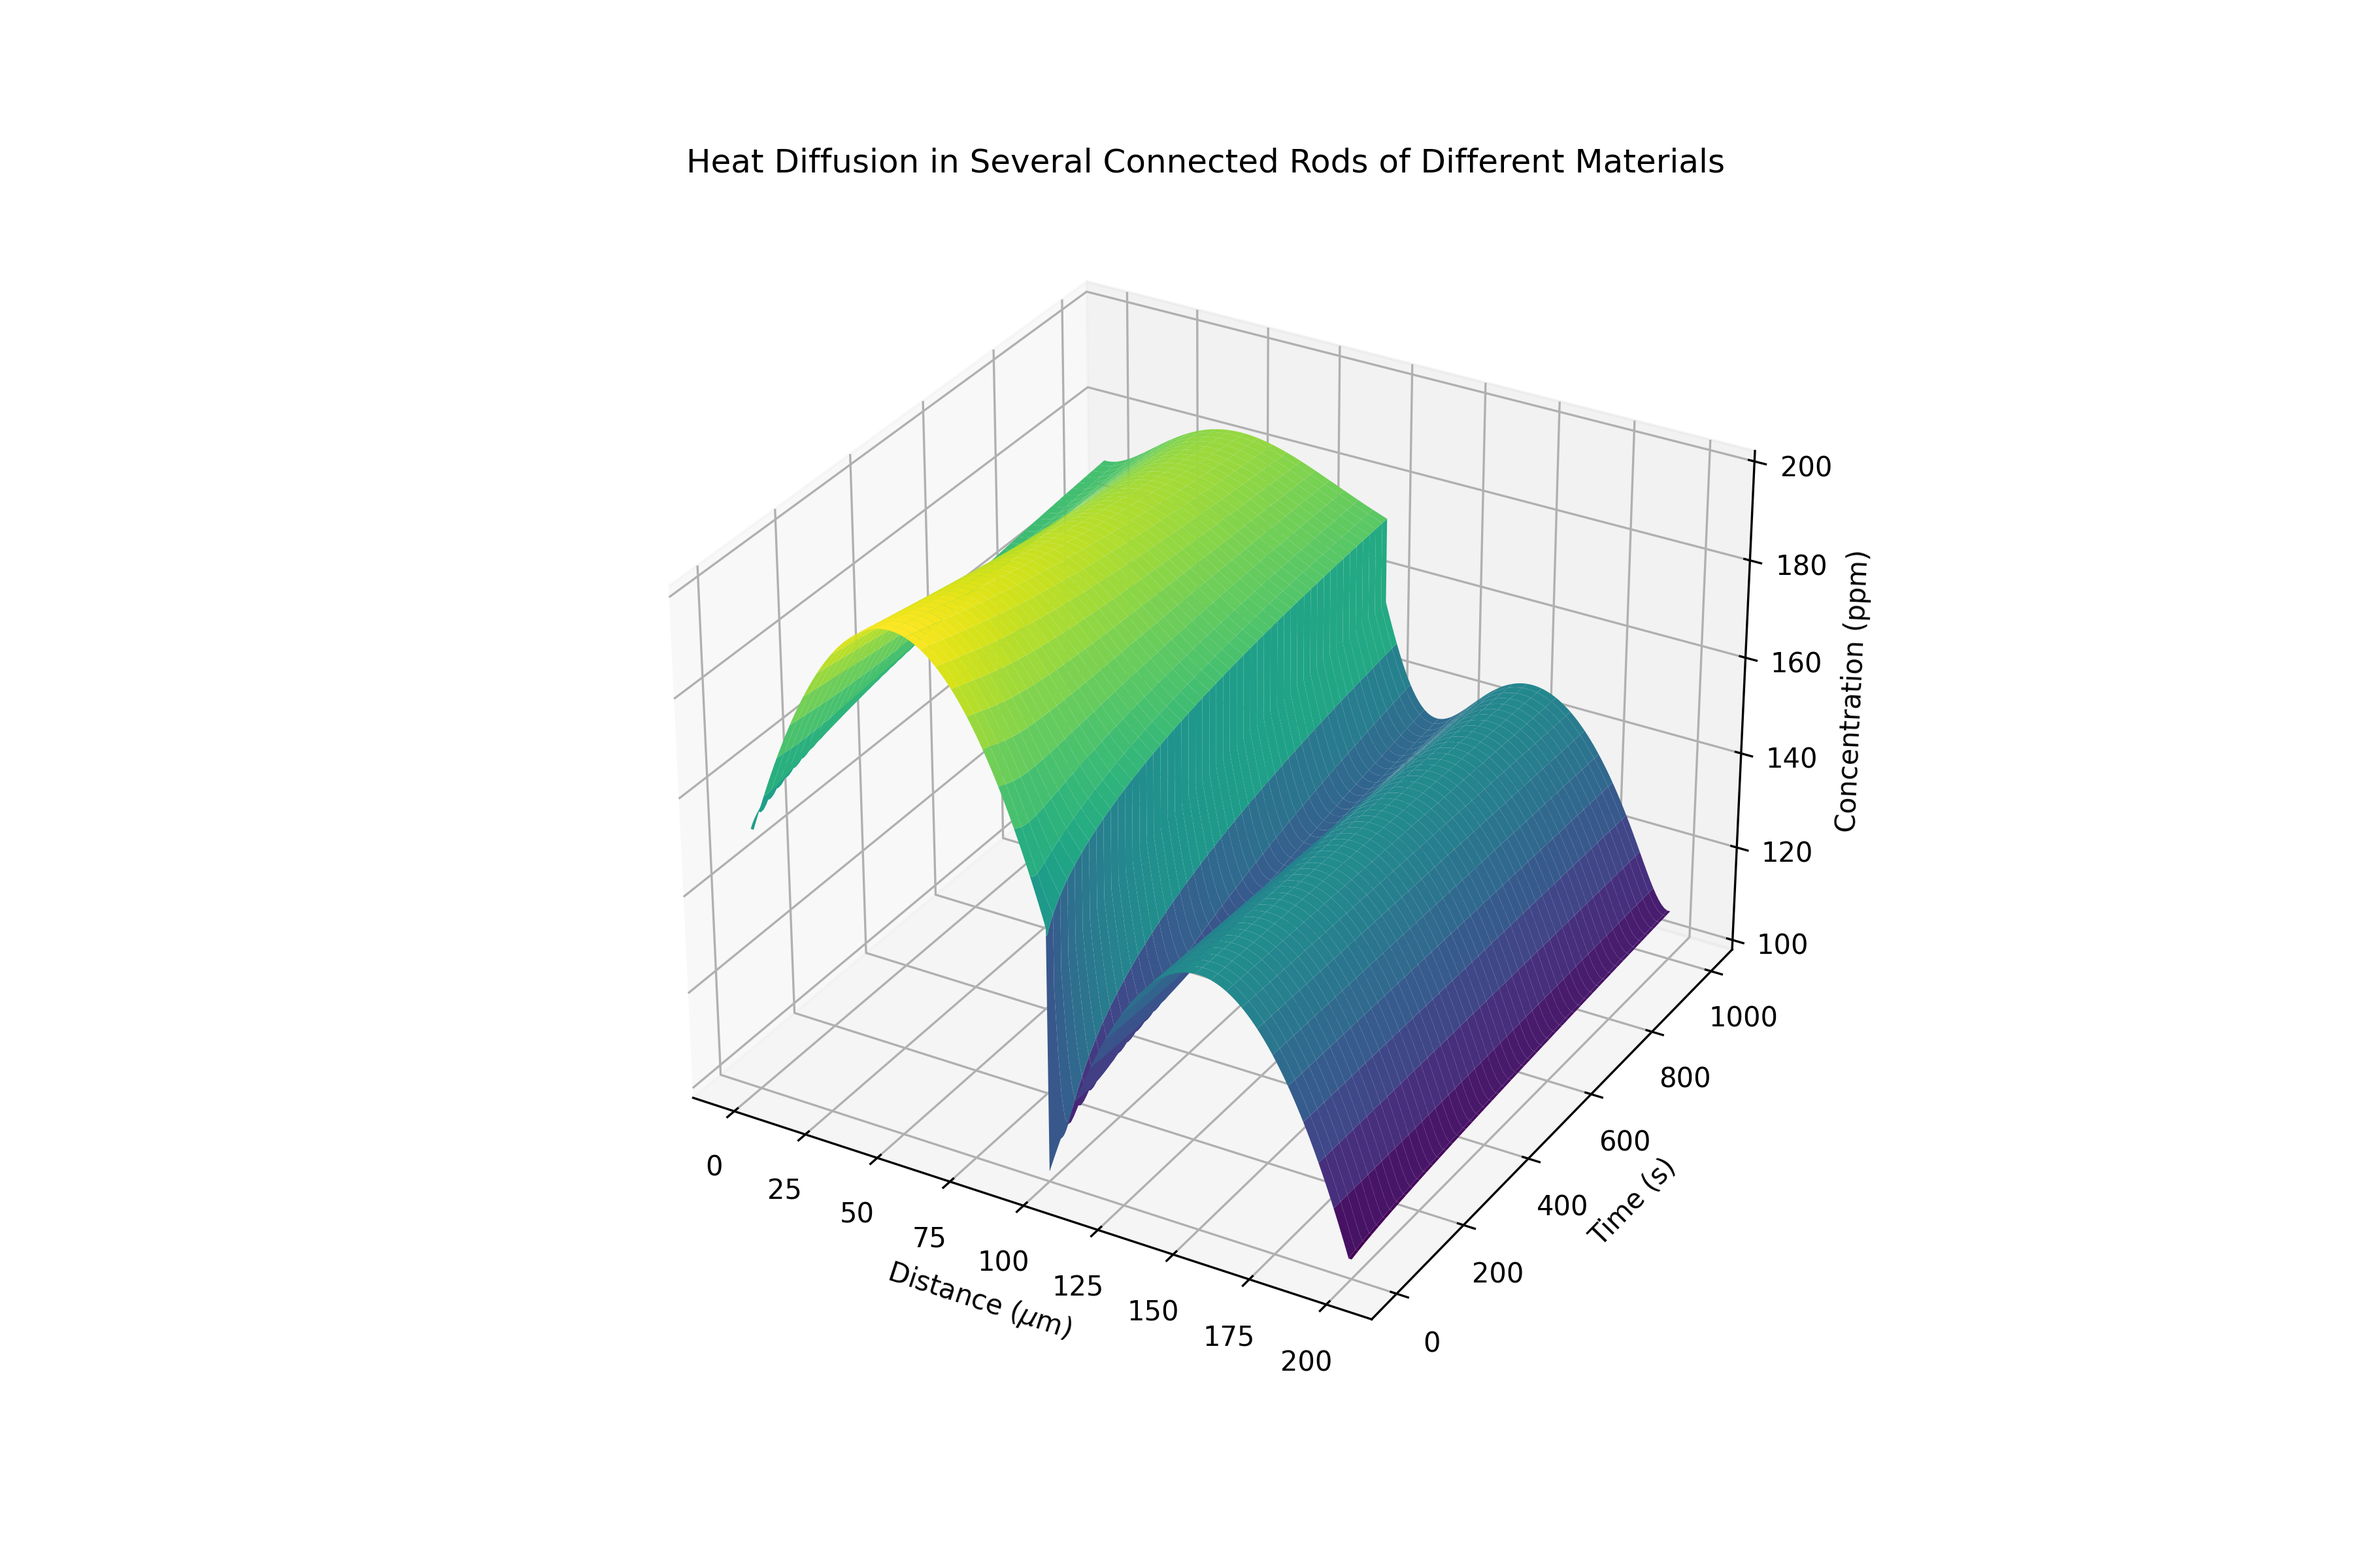
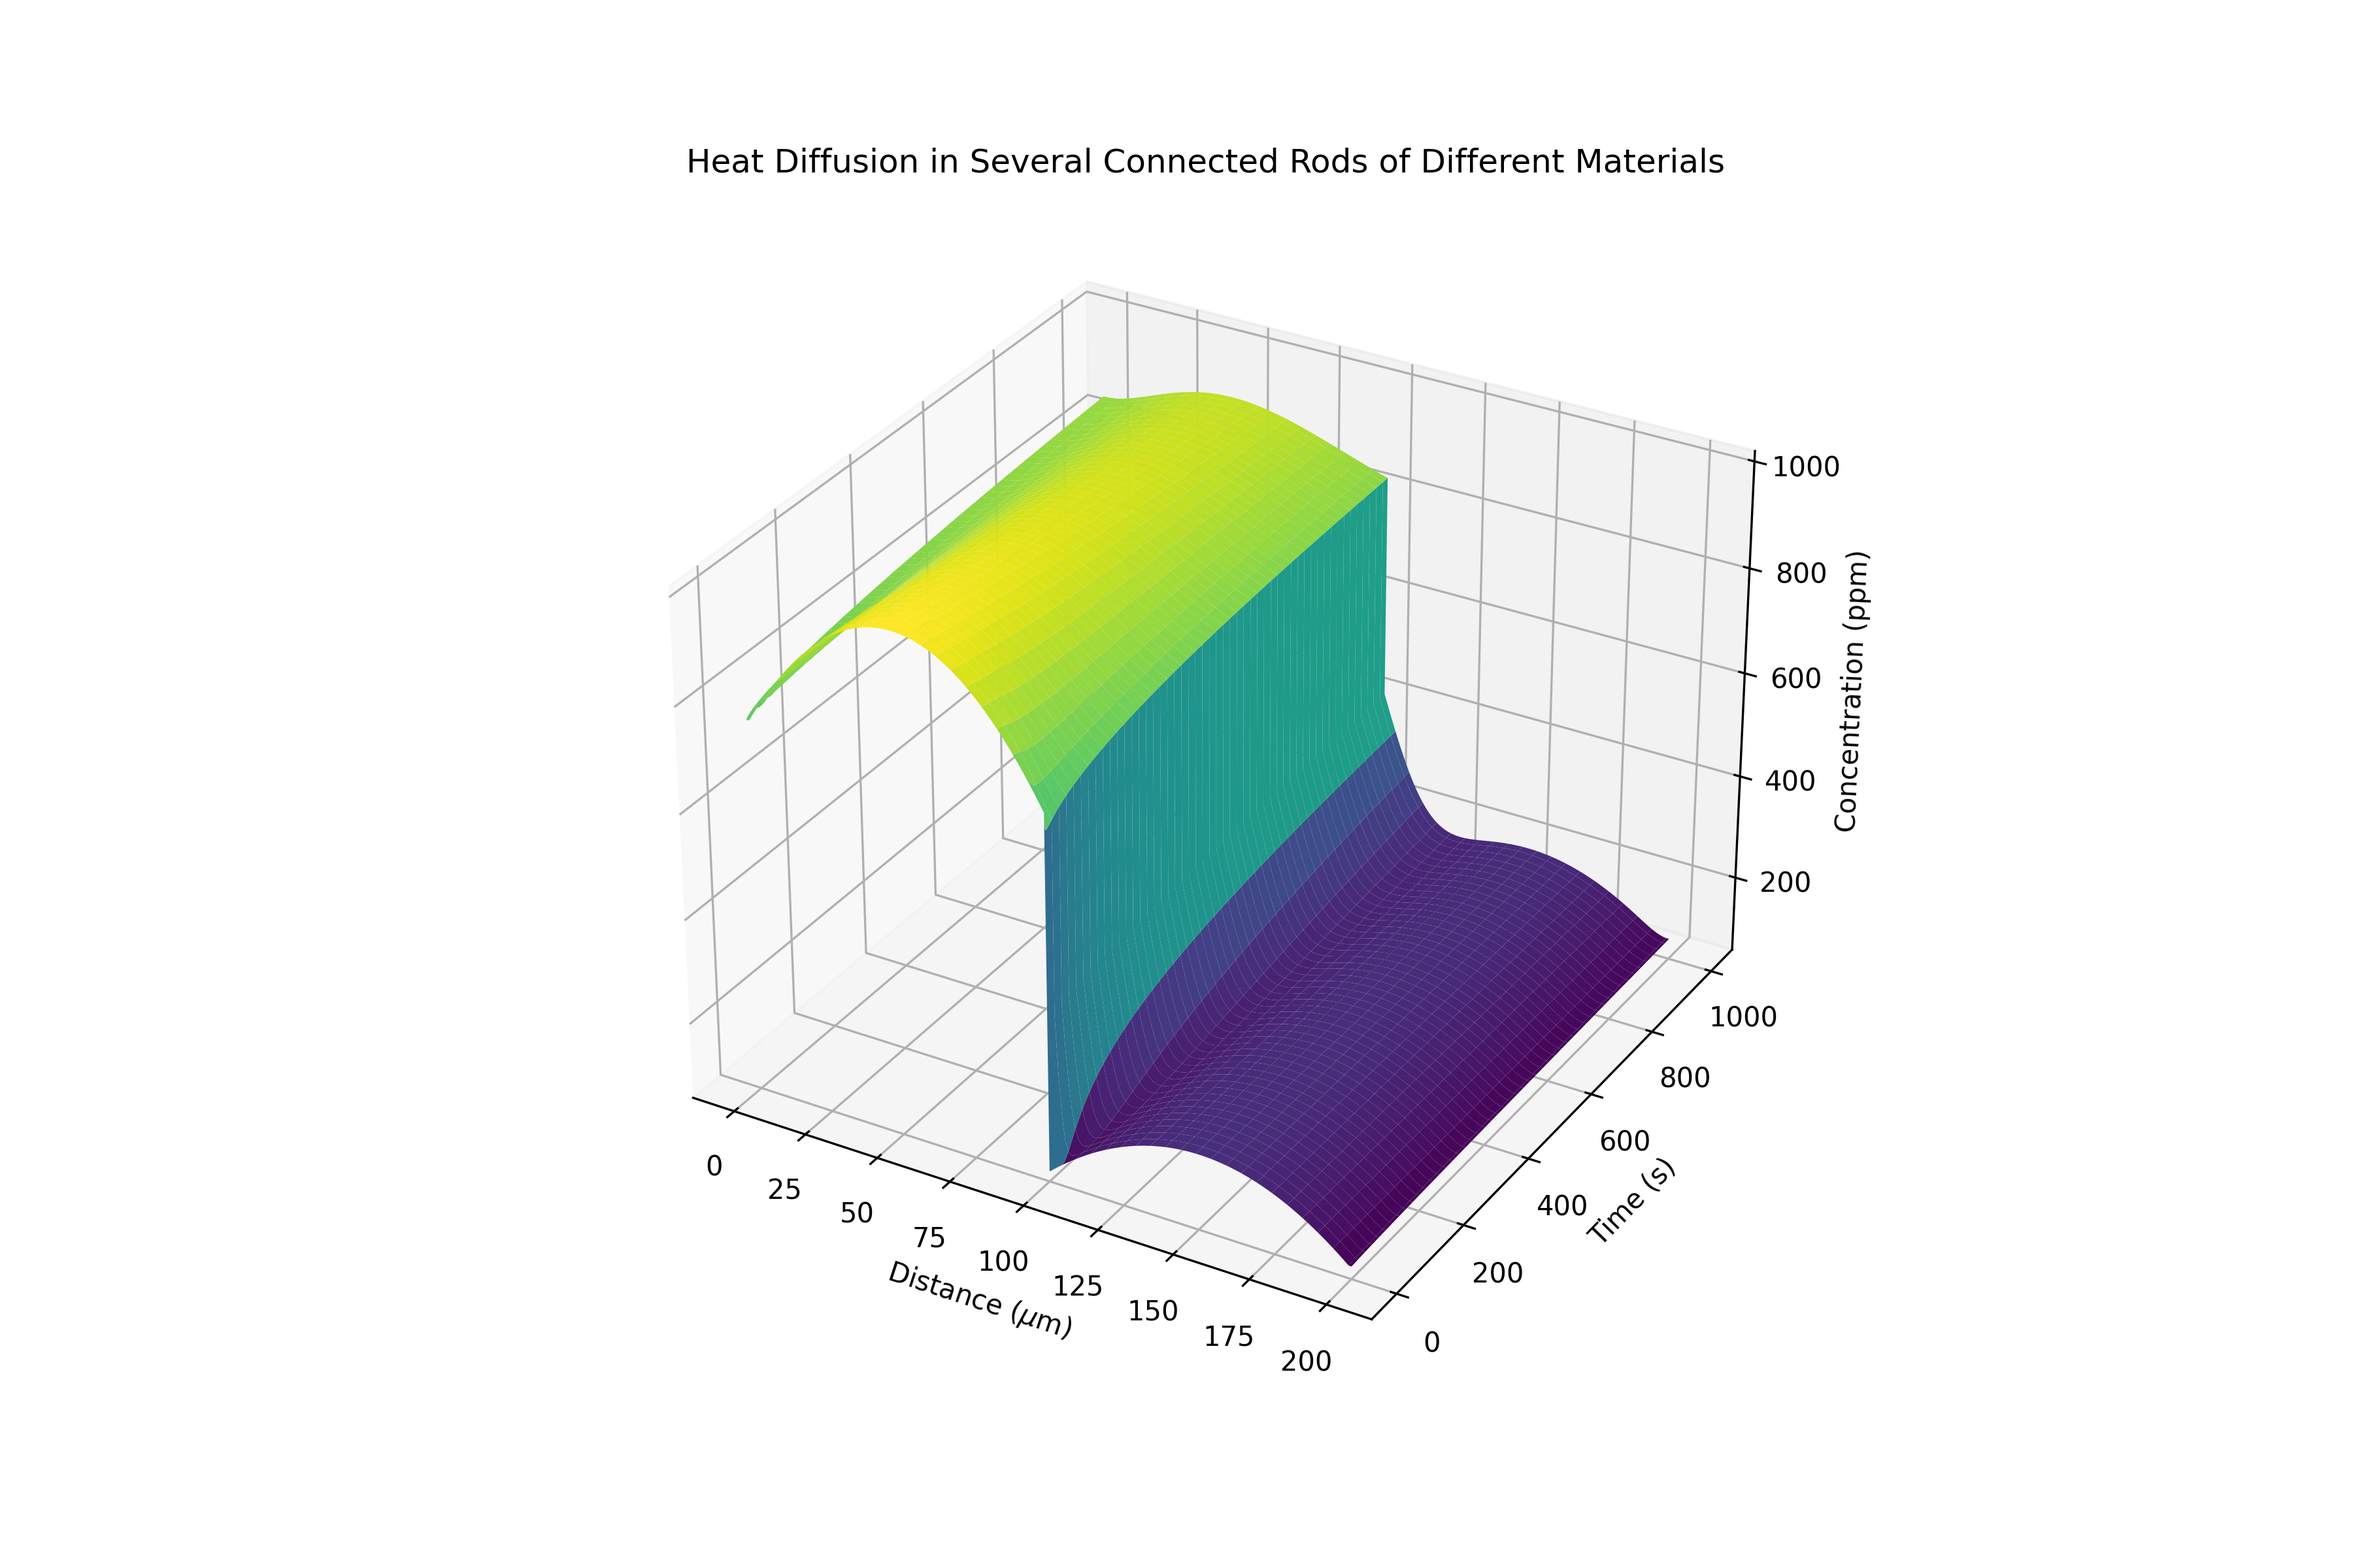
Small changes in the values

diff --git a/Element_Partitioning_and_Diffusion/Two_grains_mBC.py b/Element_Partitioning_and_Diffusion/Two_grains_mBC.py
@@ -22,7 +22,7 @@ def my_code():
     dt = 0.1  # time step
     dx = 1  # spatial step
     duration = 1000  # total simulation time
-    gamma = 0.8
+    gamma = 0.5
 
     # Discretization
     Nx_grain1 = int(L_grain1 / dx) + 1
@@ -38,8 +38,8 @@ def my_code():
     Conc_grain2 = np.zeros((Nt, Nx_grain2))
 
     # Initial conditions for each grain
-    Conc_grain1[0, :] = -0.02 * (x_values_grain1 - L_grain1/2)**2 + 200
-    Conc_grain2[0, :] = -0.02 * (x_values_grain2 - int(L_grain2/2+L_grain1))**2 + 150
+    Conc_grain1[0, :] = -0.1 * (x_values_grain1 - L_grain1/2)**2 + 1000
+    Conc_grain2[0, :] = -0.05 * (x_values_grain2 - int(L_grain2/2+L_grain1))**2 + 200
 
     # Boundary conditions
     Conc_grain1[:, 0] = Conc_grain1[:, 1]  # Isolated boundary for grain 1
@@ -109,6 +109,6 @@ def plot_2D(Conc_grain1, Conc_grain2, x_values_grain1, x_values_grain2, duration
 
 Conc_grain1, Conc_grain2, x_values_grain1, x_values_grain2, duration, Nt = my_code()
 
-plot_3D_twocolor(Conc_grain1, Conc_grain2, x_values_grain1, x_values_grain2, duration, Nt)
+plot_2D(Conc_grain1, Conc_grain2, x_values_grain1, x_values_grain2, duration, Nt)
 plt.show()
 

diff --git a/Element_Partitioning_and_Diffusion/Two_grains_var_diff_mBC.py b/Element_Partitioning_and_Diffusion/Two_grains_var_diff_mBC.py
@@ -20,7 +20,7 @@ def my_code():
     dt = 0.1  # time step
     dx = 1  # spatial step
     duration = 1000  # total simulation time
-    gamma = 0.9
+    gamma = 0.5
 
     # Discretization
     Nx_grain1 = int(L_grain1 / dx) + 1
@@ -39,8 +39,8 @@ def my_code():
     Conc_grain2 = np.zeros((Nt, Nx_grain2))
 
     # Initial conditions for each grain
-    Conc_grain1[0, :] = -0.02 * (x_values_grain1 - L_grain1/2)**2 + 200
-    Conc_grain2[0, :] = -0.02 * (x_values_grain2 - int(L_grain2/2+L_grain1))**2 + 150
+    Conc_grain1[0, :] = -0.1 * (x_values_grain1 - L_grain1/2)**2 + 1000
+    Conc_grain2[0, :] = -0.05 * (x_values_grain2 - int(L_grain2/2+L_grain1))**2 + 200
 
     # Boundary conditions
     Conc_grain1[:, 0] = Conc_grain1[:, 1]  # Isolated boundary for grain 1
